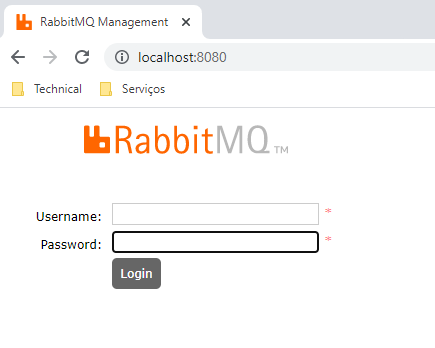
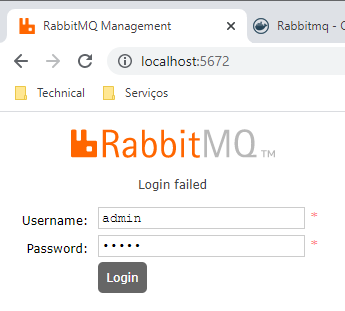
send receive

diff --git a/src/eval-rabbitmq-py-receive.py b/src/eval-rabbitmq-py-receive.py
@@ -1,5 +1,5 @@
 #
-# filename    : eval-rabbitmq-py
+# filename    : eval-rabbitmq-py-receive.py
 # Description : 
 # Docs        :
 #               * https://www.rabbitmq.com/tutorials/tutorial-one-python.html
@@ -9,44 +9,36 @@
 #               * python -m pip install pika --upgrade
 #
 
-import pika
+import pika, sys, os
 from time import sleep
 
 def callback(ch, method, properties, body):
 	print("  callback received msg: %r" % body)
 
-#
-# __main__:
-#
-if __name__ == '__main__':
-
-	print('eval-rabbitmq-py:')
-
-	# Startup application module ...
+def main():
 	#amqs_url = 'amqp://admin:admin@localhost/vhosts'
 	amqs_url = 'amqps://fojschhk:AnTrXn3Z3dn4Co9yjOhulcVFjE0Z8Jkd@jackal.rmq.cloudamqp.com/fojschhk'
 	queue_name = 'queue-eval'
-	body_msg = 'Hello, this is message number {num}. Did you get it?'
-	count_msg = 50
 	parameters = pika.URLParameters(amqs_url)
 	print(f'  pika.BlockingConnection({amqs_url})')
 	connection = pika.BlockingConnection(parameters)
 	channel = connection.channel()
 	print('  channel.queue_declare()')
 	channel.queue_declare(queue=queue_name)  # create queue
+	channel.basic_consume(queue=queue_name, on_message_callback=callback, auto_ack=True)
+	channel.start_consuming()
 
-	# callback consumer for queue ...
-	#channel.basic_consume(queue=queue_name, on_message_callback=callback, auto_ack=True)
-	#channel.start_consuming()
 
-	# loop "count_msg" times publishing ...
-	for i in range(count_msg):
-		print(f'  channel.basic_publish({i+1})')
-		sleep(1)
-		channel.basic_publish(exchange='', routing_key=queue_name, body=(body_msg.replace('{num}',str(i+1))))
 
-	# close ...
-	print('  connection.close()')
-	connection.close()
-	
-	print('eval-rabbitmq-py: Done!')
+#
+# __main__:
+#
+if __name__ == '__main__':
+
+	print('eval-rabbitmq-py-send:')
+	try:
+		main()
+	except KeyboardInterrupt:
+		print('^C interruption: exiting')
+
+	print('eval-rabbitmq-py-receive: Done!')

diff --git a/src/eval-rabbitmq-py-send.py b/src/eval-rabbitmq-py-send.py
@@ -1,0 +1,45 @@
+#
+# filename    : eval-rabbitmq-py-send.py
+# Description : 
+# Docs        :
+#               * https://www.rabbitmq.com/tutorials/tutorial-one-python.html
+#				* https://hub.docker.com/_/rabbitmq
+#				* https://www.embarcados.com.br/amqp-cliente-pika-e-broker-rabbitmq/
+# Requirements:
+#               * python -m pip install pika --upgrade
+#
+
+import pika
+from time import sleep
+
+#
+# __main__:
+#
+if __name__ == '__main__':
+
+	print('eval-rabbitmq-py-send:')
+
+	# Startup application module ...
+	#amqs_url = 'amqp://admin:admin@localhost/vhosts'
+	amqs_url = 'amqps://fojschhk:AnTrXn3Z3dn4Co9yjOhulcVFjE0Z8Jkd@jackal.rmq.cloudamqp.com/fojschhk'
+	queue_name = 'queue-eval'
+	body_msg = 'Hello, this is message number {num}. Did you get it?'
+	count_msg = 50
+	parameters = pika.URLParameters(amqs_url)
+	print(f'  pika.BlockingConnection({amqs_url})')
+	connection = pika.BlockingConnection(parameters)
+	channel = connection.channel()
+	print('  channel.queue_declare()')
+	channel.queue_declare(queue=queue_name)  # create queue
+
+	# loop "count_msg" times publishing ...
+	for i in range(count_msg):
+		print(f'  channel.basic_publish({i+1})')
+		sleep(0)
+		channel.basic_publish(exchange='', routing_key=queue_name, body=(body_msg.replace('{num}',str(i+1))))
+
+	# close ...
+	print('  connection.close()')
+	connection.close()
+	
+	print('eval-rabbitmq-py-send: Done!')

diff --git a/README.md b/README.md
@@ -38,7 +38,7 @@ Este repositório contém os artefatos do projeto **eval-rabbitmq-py** que consi
 #### a. Tecnologias e ferramentas
 
 * Python 3.8
-* Venv
+* venv
 * Docker or Kubernetes or VirtualBox or On-Premisse infrastructure (Deployment Infraestructure)
 
 
@@ -55,29 +55,41 @@ Este repositório contém os artefatos do projeto **eval-rabbitmq-py** que consi
 
 ### 3.3. Guia de Implantação, Configuração e Instalação
 
-#### a. RabbitMQ
+#### a. RabbitMQ as-a-service free on Cloud AMQP
+
+* Faça o login no service Colud AMQP
+  * https://customer.cloudamqp.com/login
+* Crie uma nova instância do serviço gratuito (free) chamado `Little Lemur` seguindo o passo a passo:
+
+![screenshot-cloudamqp-01-new-instance.png](./doc/images/screenshot-cloudamqp-01-new-instance.png) 
+![screenshot-cloudamqp-02-new-instance.png](./doc/images/screenshot-cloudamqp-02-new-instance.png) 
+![screenshot-cloudamqp-03-new-instance.png](./doc/images/screenshot-cloudamqp-03-new-instance.png) 
+![screenshot-cloudamqp-04-new-instance.png](./doc/images/screenshot-cloudamqp-04-new-instance.png) 
+![screenshot-cloudamqp-05-new-instance.png](./doc/images/screenshot-cloudamqp-05-new-instance.png) 
+![screenshot-cloudamqp-06-new-instance.png](./doc/images/screenshot-cloudamqp-06-new-instance.png) 
+
+
+#### b. RabbitMQ in a DOCKER
 
 * Run Docker container for RabbitMQ
 
 ```cmd
-C:\..\eval-rabbitmq> 
-docker run -d --hostname my-rabbit --name some-rabbit -p 8080:15672 -e RABBITMQ_DEFAULT_USER=user -e RABBITMQ_DEFAULT_PASS=password rabbitmq:3-management
+C:\..\eval-rabbitmq> docker run -d --hostname my-rabbit --name some-rabbit -p 5672:15672 -e RABBITMQ_DEFAULT_USER=admin -e RABBITMQ_DEFAULT_PASS=admin rabbitmq:3-management
 ```
 
 * Login RabbitMQ
-  * url: `http://localhost:8080`
-  * username: `user`
-  * password: `password`
+  * url: `http://localhost:5672`
+  * username: `admin`
+  * password: `admin`
 
-![screenshot-01-rabbitmq-login.png](./doc/images/screenshot-01-rabbitmq-login.png) 
+PS: Don't forget to grant access on to port on Windows Firewall
+
+
+![screenshot-rabbitmq-01-login.png](./doc/images/screenshot-rabbitmq-01-login.png) 
 
 * Expected dashboard painel
 
-![screenshot-02-rabbitmq-dashboard-painel.png](./doc/images/screenshot-02-rabbitmq-dashboard-painel.png) 
-
-* Add a new queue - name: `queue-eval`, durability: `Durable`, auto-delete: `No`
-
-![screenshot-03-rabbitmq-new-queue.png](./doc/images/screenshot-03-rabbitmq-new-queue.png) 
+![screenshot-rabbitmq-02-dashboard-painel.png](./doc/images/screenshot-rabbitmq-02-dashboard-painel.png) 
 
 
 ### 3.4. Guia de Demonstração e Teste
